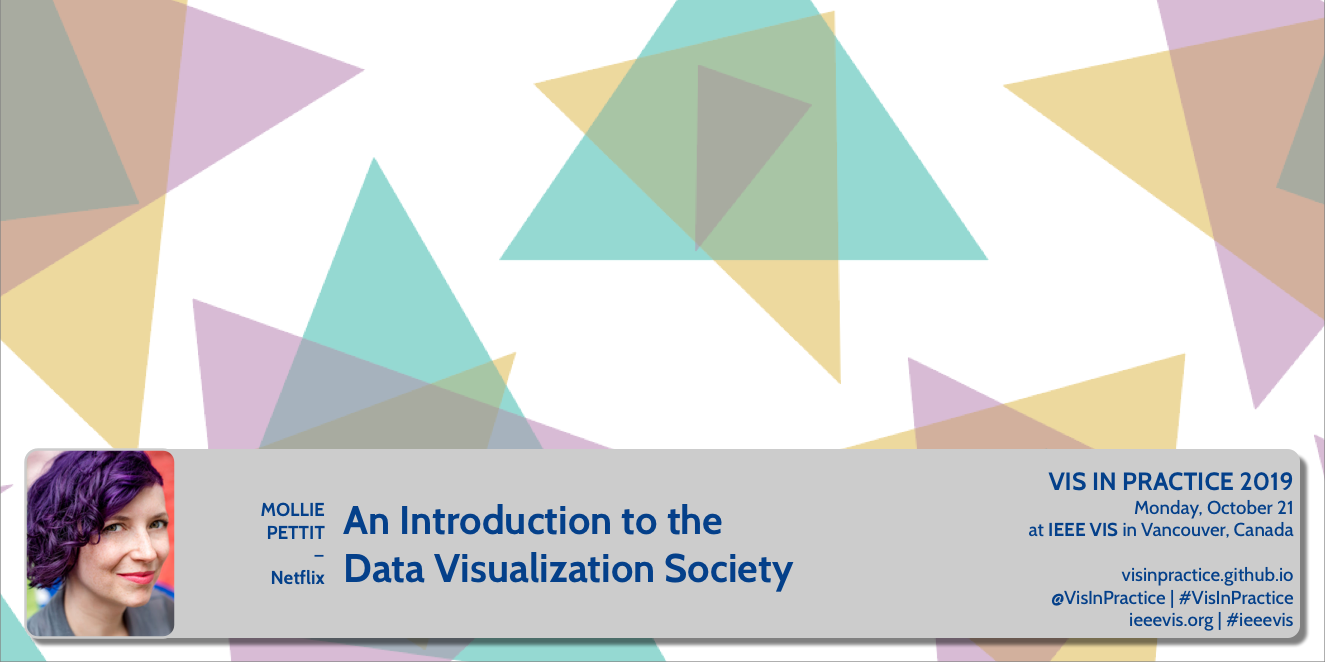
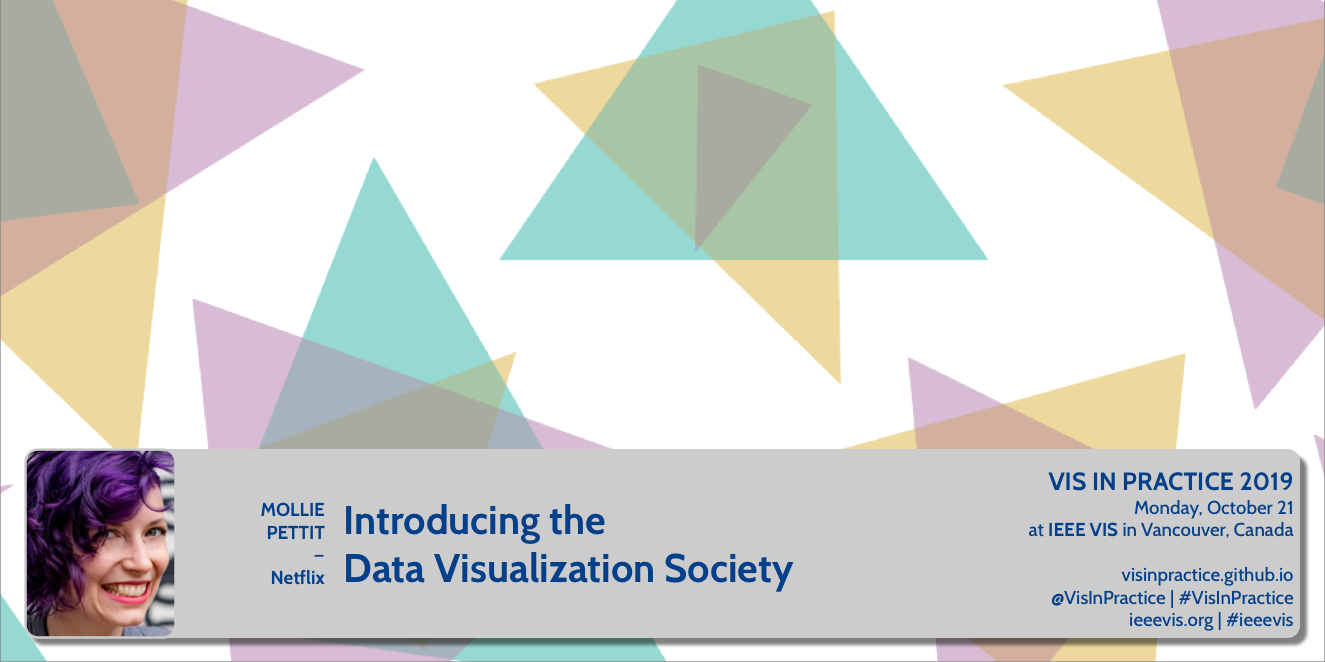
speaker lineup

Changed region(s): [[0.0, 0.6647, 0.1547, 0.9668], [0.2475, 0.7553, 0.557, 0.8157]]

diff --git a/_pages/program.md b/_pages/program.md
@@ -13,22 +13,19 @@ To attend VisInPractice 2019, you must [register for the IEEE VIS Conference](ht
 
 **Click on a speaker to see their talk title, DESCRIPTION, and bio**:
 <div class="imagemap">
-<img src="/assets/speakers-temp.png" width="100%" title="VisInPractice 2019 talk series speakers"  alt="VisInPractice 2019 talk series speakers">
-<a target="" alt="VisInPractice 2019 Program" title="VisInPractice 2019 Program" href="" style="top: 0%; left: 0%; width: 25%; height: 33%;">
+<img src="/assets/speakers.png" width="100%" title="VisInPractice 2019 talk series speakers"  alt="VisInPractice 2019 talk series speakers">
+<a target="" alt="VisInPractice 2019 Program" title="VisInPractice 2019 Program" href="program.html" style="top: 0%; left: 0%; width: 25%; height: 33%;">
 <a target="" alt="RJ Andrews" title="RJ Andrews" href="#andrews" style="top: 0%; left: 25%; width: 25%; height: 33%;">
-<a target="" alt="Eugene Chen + Joey Cherdarchuk" title="Eugene Chen + Joey Cherdarchuk" href="#chen" style="top: 0%; left: 50%; width: 25%; height: 33%;">
+<a target="" alt="Eugene Chen+ Joey Cherdarchuk" title="Eugene Chen+ Joey Cherdarchuk" href="#chen" style="top: 0%; left: 50%; width: 25%; height: 33%;">
 <a target="" alt="John Clyne" title="John Clyne" href="#clyne" style="top: 0%; left: 75%; width: 25%; height: 33%;">
 <a target="" alt="David Feng" title="David Feng" href="#feng" style="top: 33%; left: 0%; width: 25%; height: 33%;">
 <a target="" alt="Frank Hangler" title="Frank Hangler" href="#hangler" style="top: 33%; left: 25%; width: 25%; height: 33%;">
 <a target="" alt="Callie Neylan" title="Callie Neylan" href="#neylan" style="top: 33%; left: 50%; width: 25%; height: 33%;">
-<!-- <a target="" alt="Mollie Pettit" title="Mollie Pettit" href="#pettit" style="top: 33%; left: 75%; width: 25%; height: 33%;"> -->
-<a target="" alt="Chad Skelton" title="Chad Skelton" href="#skelton" style="top: 33%; left: 75%; width: 25%; height: 33%;">
-<!-- <a target="" alt="Chad Skelton" title="Chad Skelton" href="#skelton" style="top: 67%; left: 0%; width: 25%; height: 33%;"> -->
-<a target="" alt="Amber Thomas" title="Amber Thomas" href="#thomas" style="top: 67%; left: 0%; width: 25%; height: 33%;">
-<a target="" alt="Meghana Venkataswamy + Johanna Fulda" title="Meghana Venkataswamy + Johanna Fulda" href="#venkataswamy" style="top: 67%; left: 25%; width: 25%; height: 33%;">
-<a target="" alt="Timothy Wojtaszek" title="Timothy Wojtaszek" href="#wojtaszek" style="top: 67%; left: 50%; width: 25%; height: 33%;">
-<!-- <a target="" alt="Meghana Venkataswamy + Johanna Fulda" title="Meghana Venkataswamy + Johanna Fulda" href="#venkataswamy" style="top: 67%; left: 50%; width: 25%; height: 33%;">
-<a target="" alt="Timothy Wojtaszek" title="Timothy Wojtaszek" href="#wojtaszek" style="top: 67%; left: 75%; width: 25%; height: 33%;"> -->
+<a target="" alt="Mollie Pettit" title="Mollie Pettit" href="#pettit" style="top: 33%; left: 75%; width: 25%; height: 33%;">
+<a target="" alt="Chad Skelton" title="Chad Skelton" href="#skelton" style="top: 67%; left: 0%; width: 25%; height: 33%;">
+<a target="" alt="Amber Thomas" title="Amber Thomas" href="#thomas" style="top: 67%; left: 25%; width: 25%; height: 33%;">
+<a target="" alt="Meghana Venkataswamy + Johanna Fulda" title="Meghana Venkataswamy + Johanna Fulda" href="#venkataswamy" style="top: 67%; left: 50%; width: 25%; height: 33%;">
+<a target="" alt="Timothy Wojtaszek" title="Timothy Wojtaszek" href="#wojtaszek" style="top: 67%; left: 75%; width: 25%; height: 33%;">
 
 </div>
 
@@ -107,6 +104,14 @@ Joey is a cofounder and the design lead at Darkhorse Analytics. A data visualiza
 
 **SPEAKER BIO**: Callie is a designer, photographer, and writer. She has worked at various startups, software companies, and design firms in Seattle and, while on the East Coast, as a senior interaction designer at NPR. She is now a senior software designer at Microsoft, where she works on the Excel product team, creating data visualization and visual analytics tools.
 
+<span id="pettit" class="anchor"></span>
+<img src="assets/pettit.png" width="100%" title="Mollie Pettit: Introducing the Data Visualization Society"  alt="Mollie Pettit: An Introducing the Data Visualization Society"/>
+**SPEAKER**: [Mollie Pettit](http://guacamollie.com/) ([@mollzmp](http://twitter.com/mollzmp)), Netflix
+
+**DESCRIPTION**: [The Data Visualization Society](https://www.datavisualizationsociety.com/) less than a year ago, and yet so much has happened. Mollie will discuss what spurred the decision to create the society, what's been accomplished so far, and some of the difficulties along the way. She will also discuss the annual data visualization survey results and what insights it reveals about the data visualization profession.
+
+**SPEAKER BIO**: Mollie is a Senior Data Visualization Engineer with Netflix. Previously, Mollie worked as a data visualization contractor, a d3.js instructor with Northwestern University and Metis, and as a data scientist with Datascope Analytics. Mollie's joy at being involved with data viz community endeavors has led her to found and organize [Chicago Data Viz Community Meetup](https://www.meetup.com/Chicago-Data-Viz-Community/); volunteer as [VisFest](http://visfest.com/) Organizer, and serve as Knowledge Director of Data Visualization Society. When Mollie is not being a data nerd, she swing dances and bicycles around the city.
+
 <span id="skelton" class="anchor"></span>
 <img src="assets/skelton.png" width="100%" title="Chad Skelton: An Introduction to the Data Visualization Society"  alt="Chad Skelton: An Introduction to the Data Visualization Society"/>
 **SPEAKER**: [Chad Skelton](http://www.chadskelton.com/) ([@chadskelton](http://twitter.com/chadskelton)), Kwantlen Polytechnic University
@@ -117,7 +122,7 @@ Joey is a cofounder and the design lead at Darkhorse Analytics. A data visualiza
 
 <span id="thomas" class="anchor"></span>
 <img src="assets/thomas.png" width="100%" title="Amber Thomas: Things We've Learned from Telling the 'Fun' Data Stories"  alt="Amber Thomas: Things We've Learned from Telling the 'Fun' Data Stories"/>
-**SPEAKER**: Amber Thomas ([@ProQuesAsker](http://twitter.com/ProQuesAsker)), [The Pudding](https://pudding.cool/)
+**SPEAKER**: [Amber Thomas](https://amber.rbind.io/) ([@ProQuesAsker](http://twitter.com/ProQuesAsker)), [The Pudding](https://pudding.cool/)
 
 **DESCRIPTION**: When we talk about topics that are debated in culture, you may immediately think of heated, divisive topics publicly debated during political campaigns. Or perhaps you're thinking more of a low-key dispute between friends over beer. At [The Pudding](https://pudding.cool/), an online editorial for visually-led stories, we focus on adding data to both types of debate. The topics and even "serious-ness" of stories we choose to write about vary widely, and we are often asked why we continue to write about "fun" topics with so many more pressing matters at hand. In this talk, I will discuss how we tell stories, the things we've learned from telling "fun" stories, and why we think the internet is better with both.
 
@@ -125,7 +130,7 @@ Joey is a cofounder and the design lead at Darkhorse Analytics. A data visualiza
 
 <span id="venkataswamy" class="anchor"></span>
 <img src="assets/venkataswamy.png" width="100%" title="Meghana Venkataswamy + Johanna Fulda: Visualizing Opportunity"  alt="Meghana Venkataswamy + Johanna Fulda: Visualizing Opportunity"/>
-**SPEAKER**: Meghana Venkataswamy + Johanna Fulda ([@jofu_](http://twitter.com/jofu_)), [Clir Renewables](http://clir.eco)
+**SPEAKER**: Meghana Venkataswamy + [Johanna Fulda](http://www.johannafulda.de/) ([@jofu_](http://twitter.com/jofu_)), [Clir Renewables](http://clir.eco)
 
 **DESCRIPTION**: Clir is a renewable energy optimization and reporting software that increases the performance and profitability of renewable energy production through our software as a service. We bring together all aspects of renewable energy engineering including data integrity, data analytics, modeling, turbine/panel engineering, control engineering and reporting in a cloud-based application. This talk will demonstrate how our clients use data visualizations to spot abnormalities. Those can range from simple, easily identifiable problems to complex, multi dimensional issues that need deeper investigation by our internal data science team. We’ll show how clients and data scientists alike can use Clir’s tools to identify anomalies at the wind farms, find the root cause of the issue and figure out the optimization potential. We will show examples of how anomaly detection algorithms and smart data visualizations can highlight issues otherwise hidden in massive amounts of SCADA data.
 

diff --git a/_pages/index.md b/_pages/index.md
@@ -10,22 +10,19 @@ title: Home
 VisInPractice at **[IEEE VIS 2019](http://ieeevis.org)** will feature invited talks by visualization practitioners on **Monday, October 21st, 2019** in **Vancouver, BC, Canada** at the Vancouver Convention Centre in **Ballroom B**. Meet the speakers:
 
 <div class="imagemap">
-<img src="/assets/speakers-temp.png" width="100%" title="VisInPractice 2019 talk series speakers"  alt="VisInPractice 2019 talk series speakers">
-<a target="" alt="VisInPractice 2019 Program" title="VisInPractice 2019 Program" href="" style="top: 0%; left: 0%; width: 25%; height: 33%;">
+<img src="/assets/speakers.png" width="100%" title="VisInPractice 2019 talk series speakers"  alt="VisInPractice 2019 talk series speakers">
+<a target="" alt="VisInPractice 2019 Program" title="VisInPractice 2019 Program" href="program.html" style="top: 0%; left: 0%; width: 25%; height: 33%;">
 <a target="" alt="RJ Andrews" title="RJ Andrews" href="program.html#andrews" style="top: 0%; left: 25%; width: 25%; height: 33%;">
-<a target="" alt="Eugene Chen + Joey Cherdarchuk" title="Eugene Chen + Joey Cherdarchuk" href="program.html#chen" style="top: 0%; left: 50%; width: 25%; height: 33%;">
+<a target="" alt="Eugene Chen+ Joey Cherdarchuk" title="Eugene Chen+ Joey Cherdarchuk" href="program.html#chen" style="top: 0%; left: 50%; width: 25%; height: 33%;">
 <a target="" alt="John Clyne" title="John Clyne" href="program.html#clyne" style="top: 0%; left: 75%; width: 25%; height: 33%;">
 <a target="" alt="David Feng" title="David Feng" href="program.html#feng" style="top: 33%; left: 0%; width: 25%; height: 33%;">
 <a target="" alt="Frank Hangler" title="Frank Hangler" href="program.html#hangler" style="top: 33%; left: 25%; width: 25%; height: 33%;">
 <a target="" alt="Callie Neylan" title="Callie Neylan" href="program.html#neylan" style="top: 33%; left: 50%; width: 25%; height: 33%;">
-<!-- <a target="" alt="Mollie Pettit" title="Mollie Pettit" href="program.html#pettit" style="top: 33%; left: 75%; width: 25%; height: 33%;"> -->
-<a target="" alt="Chad Skelton" title="Chad Skelton" href="program.html#skelton" style="top: 33%; left: 75%; width: 25%; height: 33%;">
-<!-- <a target="" alt="Chad Skelton" title="Chad Skelton" href="program.html#skelton" style="top: 67%; left: 0%; width: 25%; height: 33%;"> -->
-<a target="" alt="Amber Thomas" title="Amber Thomas" href="program.html#thomas" style="top: 67%; left: 0%; width: 25%; height: 33%;">
-<a target="" alt="Meghana Venkataswamy + Johanna Fulda" title="Meghana Venkataswamy + Johanna Fulda" href="program.html#venkataswamy" style="top: 67%; left: 25%; width: 25%; height: 33%;">
-<a target="" alt="Timothy Wojtaszek" title="Timothy Wojtaszek" href="program.html#wojtaszek" style="top: 67%; left: 50%; width: 25%; height: 33%;">
-<!-- <a target="" alt="Meghana Venkataswamy + Johanna Fulda" title="Meghana Venkataswamy + Johanna Fulda" href="program.html#venkataswamy" style="top: 67%; left: 50%; width: 25%; height: 33%;">
-<a target="" alt="Timothy Wojtaszek" title="Timothy Wojtaszek" href="program.html#wojtaszek" style="top: 67%; left: 75%; width: 25%; height: 33%;"> -->
+<a target="" alt="Mollie Pettit" title="Mollie Pettit" href="program.html#pettit" style="top: 33%; left: 75%; width: 25%; height: 33%;">
+<a target="" alt="Chad Skelton" title="Chad Skelton" href="program.html#skelton" style="top: 67%; left: 0%; width: 25%; height: 33%;">
+<a target="" alt="Amber Thomas" title="Amber Thomas" href="program.html#thomas" style="top: 67%; left: 25%; width: 25%; height: 33%;">
+<a target="" alt="Meghana Venkataswamy + Johanna Fulda" title="Meghana Venkataswamy + Johanna Fulda" href="program.html#venkataswamy" style="top: 67%; left: 50%; width: 25%; height: 33%;">
+<a target="" alt="Timothy Wojtaszek" title="Timothy Wojtaszek" href="program.html#wojtaszek" style="top: 67%; left: 75%; width: 25%; height: 33%;">
 
 </div>
 

diff --git a/_pages/program-temp.md b/_pages/program-temp.md
@@ -15,11 +15,3 @@
 <a target="" alt="Timothy Wojtaszek" title="Timothy Wojtaszek" href="#wojtaszek" style="top: 67%; left: 75%; width: 25%; height: 33%;">
 
 </div>
-
-<span id="pettit" class="anchor"></span>
-<img src="assets/pettit.png" width="100%" title="Mollie Pettit: An Introduction to the Data Visualization Society"  alt="Mollie Pettit: An Introduction to the Data Visualization Society"/>
-**SPEAKER**: Mollie Pettit, Netflix | [@mollzmp](http://twitter.com/mollzmp)
-
-**DESCRIPTION**: The Data Visualization Society aims to collect and establish best practices, fostering a community that supports members as they grow and develop data visualization skills. As data grows more central to our personal and professional lives, the practice of data visualization becomes ever more important.
-
-**SPEAKER BIO**: Mollie tells stories through the creation of interactive data visualizations. Her data data science background is wielded to find interesting and not-so-obvious insights within the data, prepare the data, and be thoughtful about the visual representation of statistical nuances within the data. She is also passionate about teaching data visualization and d3.js via workshops and corporate trainings.
